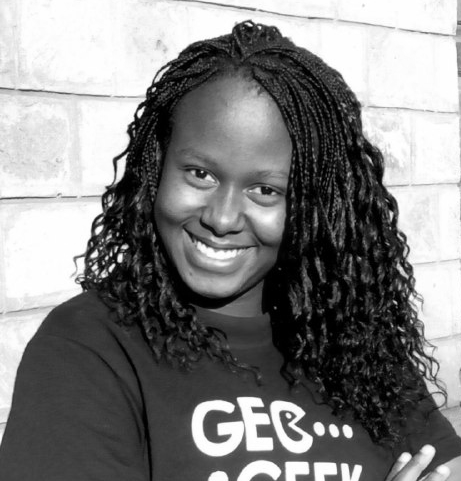
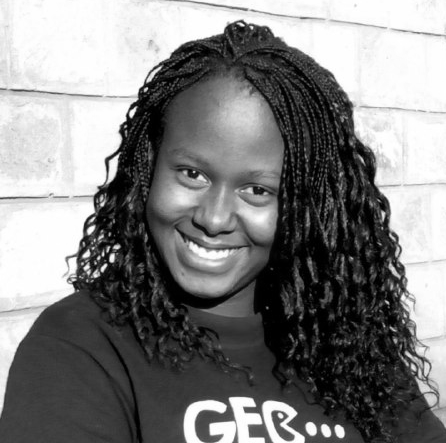
added git's oty's and ed's pics

diff --git a/index.html b/index.html
@@ -186,7 +186,7 @@
                 </div>
             </div>
             <div class="row wow fadeInUp" data-wow-delay="0.3s">
-                <div class="col-12 col-md-6 col-lg-3">
+                <div class="col-12 col-sm-6 col-lg-3">
                     <div class="single-team-member">
                         <div class="member-image">
                             <img src="img/kitty_g.png" alt="">
@@ -205,10 +205,10 @@
                         </div>
                     </div>
                 </div>
-                <div class="col-12 col-md-6 col-lg-3">
+                <div class="col-12 col-sm-6 col-lg-3">
                     <div class="single-team-member">
                         <div class="member-image">
-                            <img src="https://via.placeholder.com/255x200" alt="">
+                            <img src="img/oty_g.png" alt="">
                             <div class="team-hover-effects">
                                 <div class="team-social-icon">
                                     <a href="#"><i class="fa fa-facebook" aria-hidden="true"></i></a>
@@ -224,10 +224,10 @@
                         </div>
                     </div>
                 </div>
-                <div class="col-12 col-md-6 col-lg-3">
+                <div class="col-12 col-sm-6 col-lg-3">
                     <div class="single-team-member">
                         <div class="member-image">
-                            <img src="https://via.placeholder.com/255x200" alt="">
+                            <img class="img-fluid" src="img/git_g.png" alt="">
                             <div class="team-hover-effects">
                                 <div class="team-social-icon">
                                     <a href="#"><i class="fa fa-facebook" aria-hidden="true"></i></a>
@@ -243,10 +243,10 @@
                         </div>
                     </div>
                 </div>
-                <div class="col-12 col-md-6 col-lg-3">
+                <div class="col-12 col-sm-6 col-lg-3">
                     <div class="single-team-member">
                         <div class="member-image">
-                            <img src="https://via.placeholder.com/255x200" alt="">
+                            <img src="img/ed_g.png" alt="">
                             <div class="team-hover-effects">
                                 <div class="team-social-icon">
                                     <a href="#"><i class="fa fa-facebook" aria-hidden="true"></i></a>
